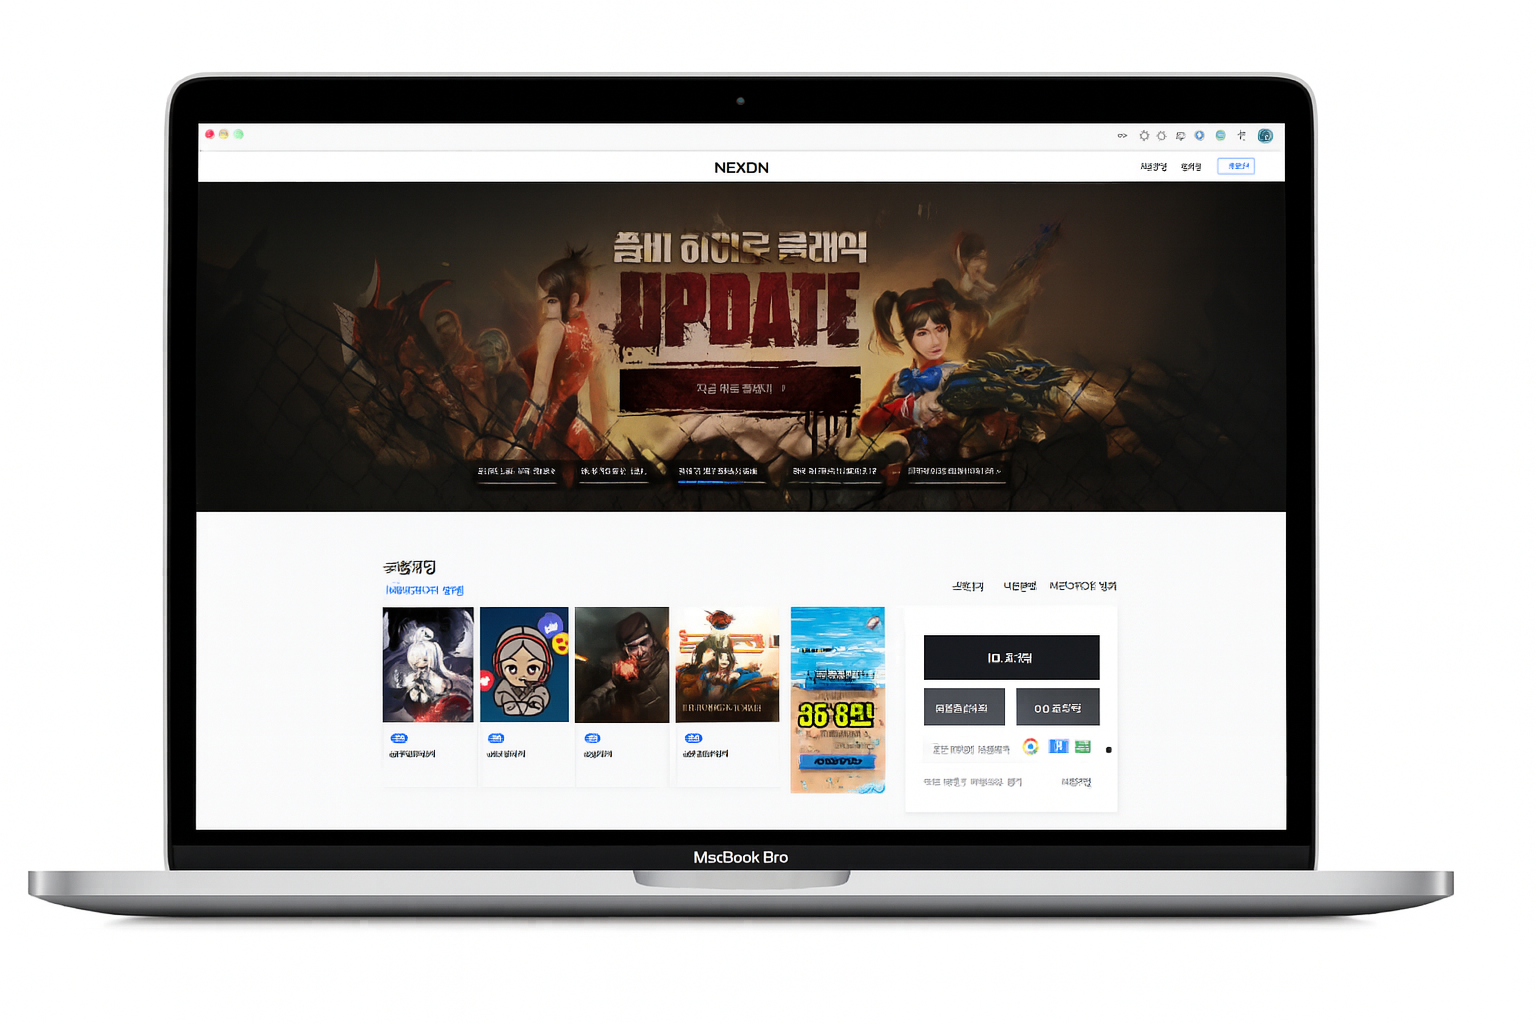
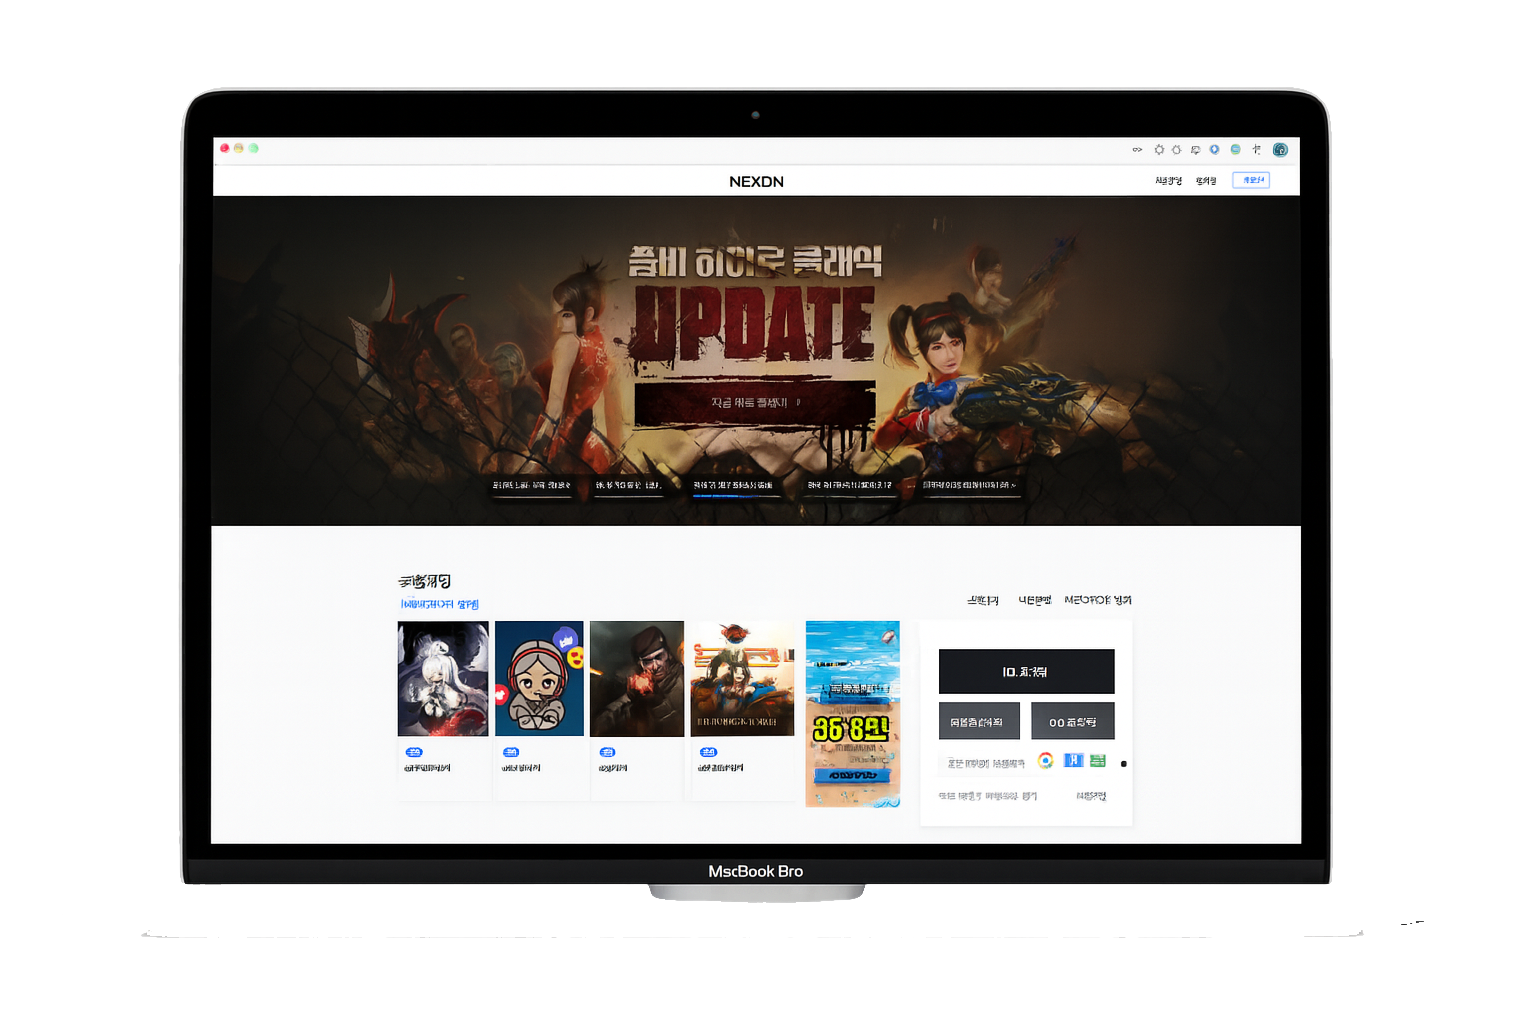
woobin

Changed region(s): [[0.0, 0.0625, 0.9688, 0.9062]]

diff --git a/css/style.css b/css/style.css
@@ -138,12 +138,12 @@
         }
 
         .profile-image img{
-          width: 100%;
+            width: 100%;
         }
 
         
         .profile-info{
-          margin-left: 200px;
+            margin-left: 200px;
         }
         
 
@@ -281,14 +281,13 @@
             display: flex;
             align-items: center;
             justify-content: center;
-            color: rgba(255, 255, 255, 0.7);
             transform: scale(0.9);
             opacity: 0;
             
         }
         
         #project1{
-            position: relative;
+            background-color: #0AA0D2;
         }
 
         #project2{
@@ -298,6 +297,11 @@
         
         #project3{
             position: relative;
+            background-color: #21316b;
+        }
+
+        #project1 img{
+            background-color: #0AA0D2;
         }
 
         #project2 img{
@@ -326,6 +330,10 @@
             margin-top: 250px;
         }
 
+        #project1 .project-title{
+            color: black;
+        }
+
         .project-title {
             font-size: 2.8rem;
             font-weight: 700;
@@ -333,6 +341,7 @@
             transform: translateY(30px);
             opacity: 0;
             transition: all 0.6s ease 0.3s;
+            color: white;
         }
 
         .project-title>span{
@@ -352,6 +361,7 @@
             transform: translateY(30px);
             opacity: 0;
             transition: all 0.6s ease 0.5s;
+            color: rgba(255, 255, 255, 0.7);
         }
 
         .section.visible .project-description {
